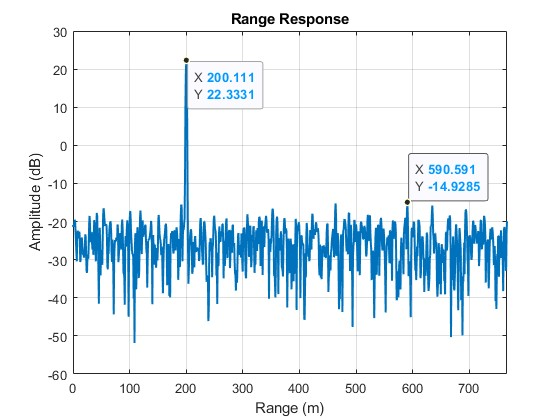
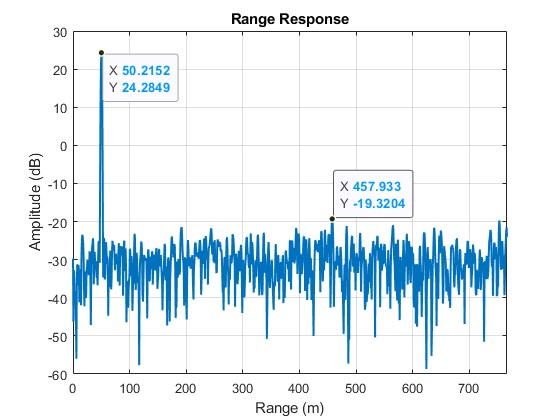
with last section modifications

Changed region(s): [[0.1214, 0.1238, 0.9107, 0.8667]]

diff --git a/latex/project_report.tex b/latex/project_report.tex
@@ -677,7 +677,7 @@ The orthogonality or low correlation of the frequency domain allows the two subs
 
 \subsection {Simulation and Performance}
       
-There are many variables and parameters that can influence the quality of the received data. To investigate the accuracy of the JRC received data, we have simulated and compared the results for many scenarios. The first OFDM-Radar simulation consists of DC subcarrier (Zero Frequency) which is used in OFDM signals to avoid issues with DC offset in the receiver, eliminate interference from low-frequency noise. 
+There are many variables and parameters that can influence the quality of the received data. To investigate the accuracy of the JRC received data, we have simulated and compared the results for many scenarios. The first OFDM-Radar simulation consists of DC subcarrier (Zero Frequency) which is used in OFDM signals to avoid issues with DC offset in the receiver, and eliminate interference from low-frequency noise. 
 
 \begin{figure}[H]
 \centering
@@ -685,7 +685,7 @@ There are many variables and parameters that can influence the quality of the re
 \caption{OFDM/Radar with DC null range plot}
 \end{figure}
 
-The next plot displays the signal with the same parameter without the DC null. The pick received power is almost the same as the signal received with DC null. However, the sidelobes and noise floor shifted down significantly (average of 17 dB lower). Lower sidelobes and noise floor is crucial to some applications with high scattering noise. By including DC offset, the available bandwidth is fully utilized, leading to better spectral efficiency. Each subcarrier contributes to the total system data rate. Utilizing the DC subcarrier adds additional capacity, increasing the total throughput of the system.
+The next plot illustrates the signal using the same parameters but without the DC null. The peak received power is nearly identical to that of the signal with the DC null. However, the sidelobes and noise floor are significantly reduced, averaging 17 dB lower. This reduction is critical for applications sensitive to high scattering noise. Including the DC subcarrier ensures full utilization of the available bandwidth, enhancing spectral efficiency. Each subcarrier contributes to the system's overall data rate, and using the DC subcarrier adds capacity, thereby increasing the total system throughput.
 
 \begin{figure}[H]
 \centering
@@ -693,18 +693,38 @@ The next plot displays the signal with the same parameter without the DC null. T
 \caption{OFDM/Radar without DC null range plot}
 \end{figure}
 
-The previous results were simulated for a target located at 50m. We have increased the target range to 500 and 900m to see the received data quality and degradation in a long target range. As the plots indicate, in the 500m range which considers a long range for V2V radar applications, we still have a distinguishable target peak (delta of 23dB). At 900m range the dynamic range degrades significantly to around 9dB. \par
+The previous results were simulated for a target located at 50m. We have increased the target range to 500 and 900m to see the received data quality and degradation in a long target range. As the plots indicate, in the 500m range which considers a long range for V2V radar applications, we still have a distinguishable target peak (PSLR 23dB). At 900m range the dynamic range degrades significantly to around 9dB. \par
 \textbf{ Note: } For an effective presentation, we only display the analysis for signals without the DC Nulls.
+
+
 \begin{figure}[H]
 \centering
 \fbox{\includegraphics[width=1.0\linewidth]{Mix_500-900m}}
 \caption{OFDM/Radar No DC null range plot 500m (left) and 900m (right)}
 \end{figure} 
-Doppler is one other critical parameter to identify the reliable radar system. The Doppler simulation results provided for both 500 and 900m in the figure below. As we expected the higher range degrades the Doppler results dynamic range (22 to 14 dB). However, in this Doppler result the resolution is not adequate to provide an accurate result. The flat signal peak indicates a high ambiguity and unreliable target velocity estimation.
+
+To ensure a fair comparison between OFDM and FMCW radar, the PSLR versus range graph is presented. Up to a range of 200 meters, the PSLR remains high at 80 dB, indicating excellent radar detection performance. Beyond 200 meters, the PSLR decreases significantly, and by approximately 1200 meters, the range becomes ambiguous.
+
 \begin{figure}[H]
 \centering
-\fbox{\includegraphics[width=1.0\linewidth]{Mix_500-900m_Doppler}}
-\caption{OFDM/Radar Doppler plot for 500m (left) and 900m (right)}
+\fbox{\includegraphics[width=1.0\linewidth]{OFDMRadar_PSLR vs Range}}
+\caption{OFDM/Radar PSLR Measurement vs Range}
+\end{figure} 
+
+The plot below represents a Range-Doppler Map (RDM), which is a visualization used in radar systems to show the relationship between detected targets' range and relative velocity. A strong return is observed around 100 meters range and close to 50 m/s velocity. This suggests a stationary or slow-moving target with strong radar reflectivity. Other ranges (e.g., 300m, 700m) show some faint signals, but these are significantly weaker compared to the strong reflection near 100m. The resolution along the velocity axis can be further refined to detect smaller velocity variations in moving targets which can addressed by optimizing the OFDM parameter in the next step. 
+
+\begin{figure}[H]
+\centering
+\fbox{\includegraphics[width=0.8\linewidth]{OFDMRadar_RDM}}
+\caption{OFDM/Radar RDM Plot}
+\end{figure} 
+
+The same PSLR vs velocity evaluation was performed for Doppler and is plotted below. It is important to note that, unlike standalone radar, the PSLR is influenced by uncompensated Doppler. The low PSLR values for Doppler make target velocity estimation challenging beyond 200 m/s.
+
+\begin{figure}[H]
+\centering
+\fbox{\includegraphics[width=1.0\linewidth]{OFDMRadar_PSLR vs Velocity}}
+\caption{OFDM/Radar PSLR Measurement vs Velocity}
 \end{figure} 
 
 A key advantage of the OFDM technique is its flexibility to adjust parameters, enabling optimal performance tailored to the application and channel characteristics in various environments. We have adjusted the OFDM parameters to optimize radar performance while preserving high communication efficiency and capacity.
@@ -735,27 +755,42 @@ Target Velocity & 50  m/s\\
 \end{center}
 
 
-The graph below presents the simulation results using the parameters described above. While the noise floor has risen to 45 dB, the dynamic range remains around 38 dB, similar to the unimproved simulation at a 200m range. Another significant improvement is the enhanced resolution of the detected peak, leading to more accurate range measurements.
+The graph below presents the simulation results using the parameters described above. While the noise floor has risen to 45 dB, the PSLR remains around 38 dB, similar to the unimproved simulation at a 50m range. Another significant improvement is the enhanced resolution of the detected peak, leading to more accurate range measurements.
 
 \begin{figure}[H]
 \centering
 \fbox{\includegraphics[width=0.8\linewidth]{OFDMRadar_No DCNull_T50_Improve}}
 \caption{OFDM/Radar range plot for 50m target}
 \end{figure} 
-The Doppler results for the above parameters plotted in the graph below. 
-\begin{figure}[H]
-\centering
-\fbox{\includegraphics[width=0.8\linewidth]{OFDMRadar_No DCNull_Doppler_T50_Improve}}
-\caption{OFDM/Radar range plot for 50m target}
-\end{figure} 
 
-Finally, we present the maximum achievable range with sufficient resolution to facilitate easy target analysis and detection. The best results were achieved at 700m. The received signal degraded significantly after 700m range. 
+The RDM results for the given parameters, shown in the graph below, demonstrate enhanced resolution with the newly optimized OFDM parameters.
 
 \begin{figure}[H]
 \centering
-\fbox{\includegraphics[width=0.8\linewidth]{Mix_Improved_700m}}
-\caption{OFDM/Radar range (left) and Doppler (right) plot for 700m target}
+\fbox{\includegraphics[width=0.8\linewidth]{OFDMRadar_RDM_Optimized}}
+\caption{OFDM/Radar RDM Plot}
 \end{figure} 
+
+The parameters for the optimized OFDM yield distinct power spectral density and BER vs. SNR results. As anticipated, the total power density decreases by 20 dB, a direct consequence of the increased number of data carriers, which has been multiplied by a factor of 16 compared to OFDM stand-alone.
+
+\begin{figure}[H]
+\centering
+\fbox{\includegraphics[width=0.8\linewidth]{Pwr Density_Optimized OFDMRadar}}
+\caption{OFDM/Radar Power Spectral Density}
+\end{figure} 
+
+The final parameter compared for optimized OFDM signal integrity against stand-alone OFDM is the BER vs. SNR. The plot below shows that the BER results align with the expected values and are within the same range as those of stand-alone OFDM.
+
+\begin{figure}[H]
+\centering
+\fbox{\includegraphics[width=0.8\linewidth]{BER vs SNR_Optimized OFDMRadar_AWGN}}
+\caption{OFDM/Radar BER vs SNR}
+\end{figure} 
+
+
+
+
+
 \section {Conclusion}
 While JRC may slightly compromise the standalone performance of either radar (resolution) or communication (capacity), it offers significant advantages in shared resource utilization, reduced hardware cost, and suitability for modern multi-functional systems like autonomous vehicles.
 

diff --git a/code/runOfdmRadar.m b/code/runOfdmRadar.m
@@ -1,7 +1,8 @@
 %% OFDM Radar w/ Default Parameters
 radar = ofdmRadar(...
     'nDataCarriers', 49,...
-    'nullDcSubcarrier', true);
+    'targetVelocity',50,...
+    'nullDcSubcarrier', false);
 radar.run();
 
 %% OFDM Radar PSLR Measurement
@@ -31,6 +32,12 @@ figure(1)
 clf;
 plot(targetVelocity, PSLR_dB);
 
+
+ % Label Plot
+            title('Peak Sidelobe Ratio vs Velocity')
+            %legend('Signal Power', 'Average Power');
+            xlabel('Velocity (m/s)')
+            ylabel('PSLR (dB)')
 %% OFDM Radar PSLR Measurement
 f = 5.9e9;
 c = physconst('lightspeed');
@@ -58,6 +65,11 @@ figure(1)
 clf;
 plot(targetRange, PSLR_dB);
 
+ % Label Plot
+            title('Peak Sidelobe Ratio vs Range')
+            %legend('Signal Power', 'Average Power');
+            xlabel('Range (m)')
+            ylabel('PSLR (dB)')
 %% OFDM Radar (Target at Large Range);
 radar = ofdmRadar(...
     'nDataCarriers', 49,...
@@ -75,7 +87,7 @@ radar.run();
 %% OFDM Radar Improved Parameters
 radar = ofdmRadar(...
     'carrierFreq', 77e9,...
-    'targetRange', 200,...
+    'targetRange', 50,...
     'targetVelocity', 50,...
     'sampleRate', 200e6,...
     'nSubcarriers', 16*64,...

diff --git a/code/runOfdmModel.m b/code/runOfdmModel.m
@@ -4,7 +4,20 @@ o.run();
 
 %% Run OFDM Model using 802.11a pilots and Rayleigh channel
 o = ofdmModel(...
-    'nSymbols', 1e5,...
+       'nSymbols', 1e5,...
     'enRayleighFading', true,...
+    'eqAlgorithm', 'mmse');
+o.run();
+
+%% Run OFDM Model using 802.11a pilots and Rayleigh channel
+o = ofdmModel(...
+    'sampleRate', 200e6,...
+    'nSubcarriers', 16*64,...
+    'nDataCarriers', 16*48+1,...
+    'nPilotCarriers', 16*4,...
+    'autoplacePilots', true,...
+    'nullDcSubcarrier', false,...
+    'nSymbols', 1e5,...
+    'enRayleighFading', false,...
     'eqAlgorithm', 'mmse');
 o.run();
